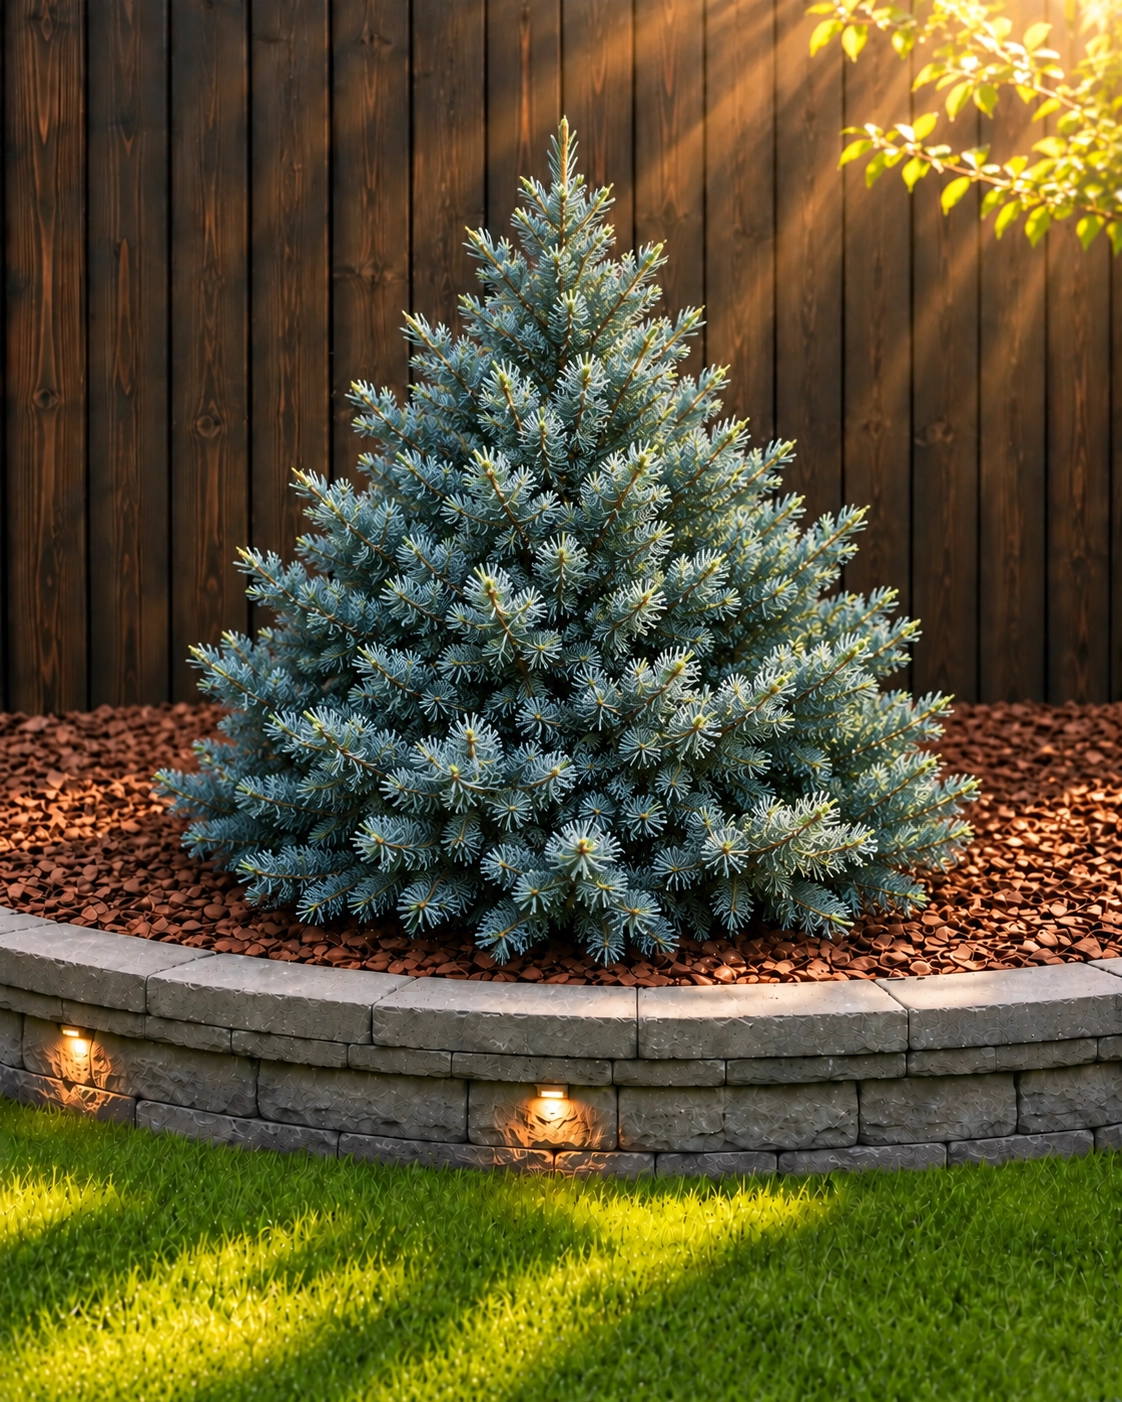
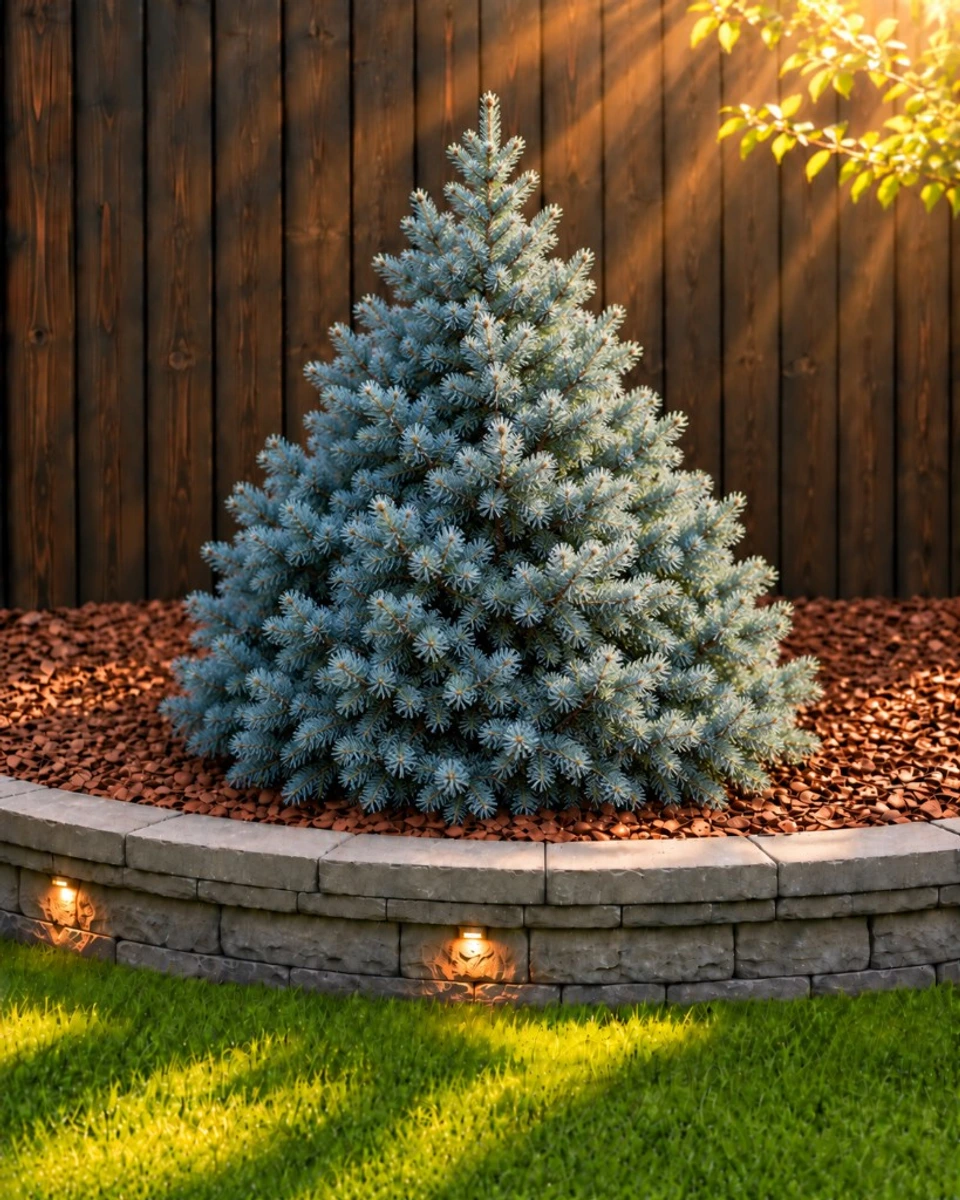
fix: обновить фото елей Nana и Sander’s Blue

diff --git a/assets/js/garden-catalog.js b/assets/js/garden-catalog.js
@@ -535,7 +535,7 @@
     });
   }
 
-  const PHOTO_CACHE_V = "20261014b";
+  const PHOTO_CACHE_V = "20261014d";
 
   function photo(p) {
     const src = p.photo ? `${p.photo}?v=${PHOTO_CACHE_V}` : "";
